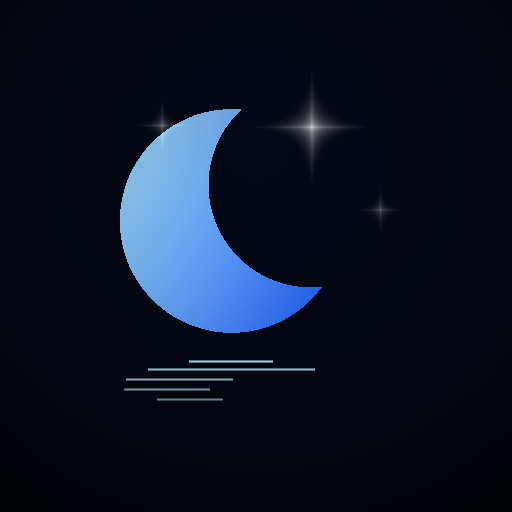
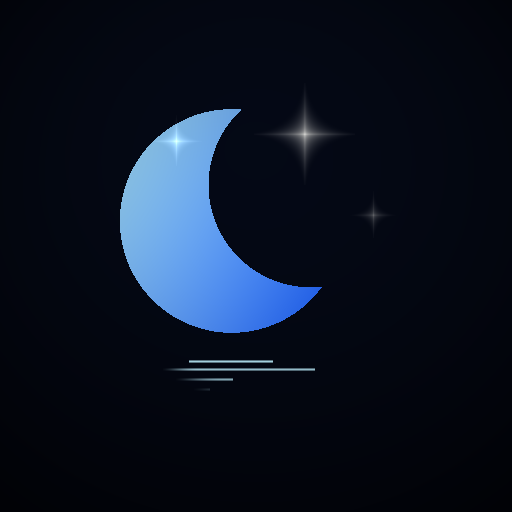
fix: launcher-safe fg polish — ripple tips fade inside mask, stars nudged into visible circle
- 波纹线末端在触到启动器可见圆（66% 安全圆）前 22px 渐隐，不再被圆形遮罩硬切
- 三颗星内移（原第二颗星落在可见圆外只剩半截光晕），全部星体+光晕入圆
- 程序化校验：可见圆外亮内容像素归零（月牙/波纹/星核零裁切）

diff --git a/tools/theme-icons.py b/tools/theme-icons.py
@@ -54,7 +54,7 @@ _p1 = T(sc(235, CCX), sc(218, CCY)); _p2 = T(sc(345, CCX), sc(168, CCY))
 FG_C1X, FG_C1Y, FG_R1 = _p1[0], _p1[1], 155 * SC * FSC
 FG_C2X, FG_C2Y, FG_R2 = _p2[0], _p2[1], 142 * SC * FSC
 FG_WL = T(256, sc(396, CCY))[1]
-_s1 = T(330, 120); _s2 = T(160, 118); _s3 = T(408, 214)
+_s1 = T(322, 128); _s2 = T(176, 136); _s3 = T(400, 220)
 FG_STARS = ((_s1[0], _s1[1], 3.0 * FSC, 0.95), (_s2[0], _s2[1], 2.0 * FSC, 0.6), (_s3[0], _s3[1], 1.8 * FSC, 0.5))
 
 # ===== 四主题月色调板 =====
@@ -144,8 +144,9 @@ def render_theme(P, fg=False):
             row[x] = (clamp(r, 0, 255), clamp(g, 0, 255), clamp(b, 0, 255))
         rows.append(row)
 
-    # fg 构图的离散波纹线（与默认 fg 同算法：镜像月牙采样，随深度变碎变淡）
+    # fg 构图的离散波纹线（与默认 fg 同算法：镜像月牙采样，随深度变碎变淡；线端触边前渐隐）
     if fg:
+        vis_r = S * (66 / 108) / 2
         for i, yy in enumerate((402, 413, 425, 438, 452, 466, 480)):
             yi = int(T(256, sc(yy, CCY))[1])
             comp = 1.5 + i * 0.55
@@ -157,15 +158,19 @@ def render_theme(P, fg=False):
             for x in range(S):
                 xw = x + math.sin(x * 0.045 + yi * 0.21) * wave
                 if in_crescent(xw, src_y):
+                    tip = 1.0 - smooth(vis_r - 30, vis_r - 8, math.sqrt((x - 256) ** 2 + (yi - 256) ** 2))
+                    fade_t = fade * tip
+                    if fade_t <= 0.01:
+                        continue
                     for dyi, wv in ((0, 1.0), (-1, 0.55), (1, 0.55)):
                         yy2 = yi + dyi
                         if not (0 <= yy2 < S):
                             continue
                         px = rows[yy2][x]
                         rows[yy2][x] = (
-                            lerp(px[0], P['refl'][0], fade * wv),
-                            lerp(px[1], P['refl'][1], fade * wv),
-                            lerp(px[2], P['refl'][2], fade * wv),
+                            lerp(px[0], P['refl'][0], fade_t * wv),
+                            lerp(px[1], P['refl'][1], fade_t * wv),
+                            lerp(px[2], P['refl'][2], fade_t * wv),
                         )
     return rows
 

diff --git a/tools/icon-fg-v8.py b/tools/icon-fg-v8.py
@@ -79,7 +79,8 @@ for y in range(S):
         row[x] = (clamp(r, 0, 255), clamp(g, 0, 255), clamp(b, 0, 255))
     rows.append(row)
 
-# ===== 水面镜像倒影（同 icon-v7，坐标经 T 变换）=====
+# ===== 水面镜像倒影（同 icon-v7，坐标经 T 变换；线端在触到可见圆前渐隐）=====
+VIS_R = S * (66 / 108) / 2
 RIPPLE_LINES = tuple(
     dict(y=T(256, CCY + (yy - CCY) * SC)[1], comp=1.5 + i * 0.55, wave=(2.0 + i * 0.8) * SC * FSC, fade=(0.95 - i * 0.09))
     for i, yy in enumerate((402, 413, 425, 438, 452, 466, 480))
@@ -92,12 +93,16 @@ for ln in RIPPLE_LINES:
     for x in range(S):
         xw = x + math.sin(x * 0.045 + yi * 0.21) * wave
         if crescent(xw, src_y):
+            tip = 1.0 - smooth(VIS_R - 30, VIS_R - 8, math.sqrt((x - 256) ** 2 + (yi - 256) ** 2))
+            f = fade * tip
+            if f <= 0.01:
+                continue
             for dyi, wv in ((0, 1.0), (-1, 0.55), (1, 0.55)):
                 yy2 = yi + dyi
                 if not (0 <= yy2 < S):
                     continue
                 px = rows[yy2][x]
-                rows[yy2][x] = (lerp(px[0], 190, fade * wv), lerp(px[1], 240, fade * wv), lerp(px[2], 255, fade * wv))
+                rows[yy2][x] = (lerp(px[0], 190, f * wv), lerp(px[1], 240, f * wv), lerp(px[2], 255, f * wv))
 
 # ===== 繁星（同 icon-v7 三颗，坐标经 T 变换）=====
 def add_sparkle(cx, cy, size, amp):
@@ -113,10 +118,10 @@ def add_sparkle(cx, cy, size, amp):
                 f = math.exp(-(dx * dx + dy * dy) / (2 * 8 * 8)) * amp * 0.5
                 rows[y][x] = (clamp(px[0] + 255 * f, 0, 255), clamp(px[1] + 250 * f, 0, 255), clamp(px[2] + 230 * f, 0, 255))
 
-s1x, s1y = T(330, 120); s2x, s2y = T(160, 118); s3x, s3y = T(408, 214)
-add_sparkle(s1x, s1y, 24 * FSC, 1.0)
-add_sparkle(s2x, s2y, 12 * FSC, 0.55)
-add_sparkle(s3x, s3y, 11 * FSC, 0.45)
+s1x, s1y = T(322, 128); s2x, s2y = T(176, 136); s3x, s3y = T(400, 220)
+add_sparkle(s1x, s1y, 22 * FSC, 1.0)
+add_sparkle(s2x, s2y, 11 * FSC, 0.55)
+add_sparkle(s3x, s3y, 10 * FSC, 0.45)
 
 # ===== 输出：master + 全密度前景 =====
 write_png_rgb('native-resources/moon-fg-master.png', S, S, rows)
